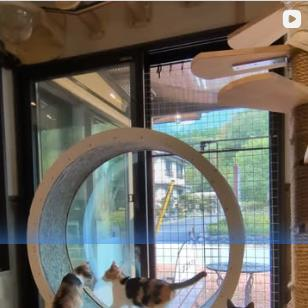
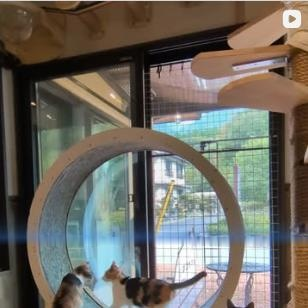
Fix cat cafe: remove blue line artifacts from images and optimize access layout to eliminate empty space

diff --git a/catcafe.html b/catcafe.html
@@ -548,62 +548,101 @@
           </div>
         </div>
 
-        <div class="access-box" style="margin-top: 0;">
-          <div class="detail-split-row" style="align-items: flex-start;">
-            <div class="detail-split-content" style="flex: 1.2;">
-              <table style="width: 100%; border-collapse: collapse; font-size: 0.92rem; color: var(--color-text-sub);">
+                <div class="access-box" style="margin-top: 0; padding: 36px 32px; background: rgba(22, 30, 26, 0.9); border: 1px solid rgba(212, 175, 55, 0.25); border-radius: 14px; box-shadow: 0 12px 36px rgba(0,0,0,0.4);">
+          <div style="display: grid; grid-template-columns: repeat(auto-fit, minmax(340px, 1fr)); gap: 36px; align-items: start;">
+            <!-- 左カラム: 店舗情報テーブル & ボタン -->
+            <div>
+              <div style="display: flex; align-items: center; gap: 10px; margin-bottom: 20px;">
+                <span style="display: inline-flex; align-items: center; justify-content: center; width: 36px; height: 36px; border-radius: 50%; background: rgba(212, 175, 55, 0.15); border: 1px solid var(--color-gold); color: var(--color-gold-light); font-size: 1rem;">
+                  <i class="fa-solid fa-store"></i>
+                </span>
+                <h3 style="font-family: var(--font-mincho); font-size: 1.3rem; color: #fff; margin: 0;">店舗インフォメーション</h3>
+              </div>
+
+              <table style="width: 100%; border-collapse: collapse; font-size: 0.93rem; color: var(--color-text-sub);">
                 <tbody>
                   <tr style="border-bottom: 1px solid rgba(255,255,255,0.08);">
-                    <th style="padding: 14px 10px; width: 140px; color: #ffffff; font-weight: 600; text-align: left; vertical-align: top;">店舗名称</th>
-                    <td style="padding: 14px 10px;">あかさわネコカフェ＆ダイニング（赤沢ネコカフェ）</td>
+                    <th style="padding: 13px 8px; width: 130px; color: #ffffff; font-weight: 600; text-align: left; vertical-align: top;">店舗名称</th>
+                    <td style="padding: 13px 8px; color: #eee; font-weight: 500;">あかさわネコカフェ＆ダイニング<br><span style="font-size: 0.82rem; color: var(--color-gold-light);">（赤沢ネコカフェ）</span></td>
                   </tr>
                   <tr style="border-bottom: 1px solid rgba(255,255,255,0.08);">
-                    <th style="padding: 14px 10px; color: #ffffff; font-weight: 600; text-align: left; vertical-align: top;">所在地</th>
-                    <td style="padding: 14px 10px;">
+                    <th style="padding: 13px 8px; color: #ffffff; font-weight: 600; text-align: left; vertical-align: top;">所在地</th>
+                    <td style="padding: 13px 8px;">
                       〒329-2921 栃木県那須塩原市中塩原537-23<br>
-                      <span style="font-size: 0.85rem; color: var(--color-gold-light);">※赤沢温泉旅館から徒歩約10分、車で約2分</span>
+                      <span style="font-size: 0.85rem; color: var(--color-gold-light); display: inline-block; margin-top: 4px;">
+                        <i class="fa-solid fa-person-walking"></i> 赤沢温泉旅館から徒歩約10分／車で約2分
+                      </span>
                     </td>
                   </tr>
                   <tr style="border-bottom: 1px solid rgba(255,255,255,0.08);">
-                    <th style="padding: 14px 10px; color: #ffffff; font-weight: 600; text-align: left; vertical-align: top;">お電話</th>
-                    <td style="padding: 14px 10px;">
-                      <a href="tel:0287-46-5700" style="color: var(--color-gold-light); font-weight: 600;">0287-46-5700</a>（赤沢温泉旅館 共通）
+                    <th style="padding: 13px 8px; color: #ffffff; font-weight: 600; text-align: left; vertical-align: top;">お電話</th>
+                    <td style="padding: 13px 8px;">
+                      <a href="tel:0287-46-5700" style="color: var(--color-gold-light); font-weight: 600; font-size: 1.05rem; text-decoration: none;">
+                        <i class="fa-solid fa-phone"></i> 0287-46-5700
+                      </a>
+                      <span style="font-size: 0.82rem; color: #aaa; margin-left: 6px;">（赤沢温泉旅館 共通）</span>
                     </td>
                   </tr>
                   <tr style="border-bottom: 1px solid rgba(255,255,255,0.08);">
-                    <th style="padding: 14px 10px; color: #ffffff; font-weight: 600; text-align: left; vertical-align: top;">営業日・時間</th>
-                    <td style="padding: 14px 10px;">
-                      金・土・日・祝日 10:30 〜 14:00<br>
-                      <span style="font-size: 0.82rem; color: var(--color-text-muted);">※状況によりプレオープン・臨時営業あり。最新日は公式SNSをご確認ください。</span>
+                    <th style="padding: 13px 8px; color: #ffffff; font-weight: 600; text-align: left; vertical-align: top;">営業日・時間</th>
+                    <td style="padding: 13px 8px;">
+                      <strong style="color: #fff;">金・土・日・祝日 10:30 〜 14:00</strong><br>
+                      <span style="font-size: 0.82rem; color: var(--color-text-muted); display: inline-block; margin-top: 3px;">
+                        ※状況によりプレオープン・臨時営業あり。最新日は公式SNSをご確認ください。
+                      </span>
                     </td>
                   </tr>
                   <tr style="border-bottom: 1px solid rgba(255,255,255,0.08);">
-                    <th style="padding: 14px 10px; color: #ffffff; font-weight: 600; text-align: left; vertical-align: top;">駐車場</th>
-                    <td style="padding: 14px 10px;">専用駐車場あり（無料）</td>
+                    <th style="padding: 13px 8px; color: #ffffff; font-weight: 600; text-align: left; vertical-align: top;">駐車場</th>
+                    <td style="padding: 13px 8px;">専用駐車場あり（無料）</td>
                   </tr>
                   <tr>
-                    <th style="padding: 14px 10px; color: #ffffff; font-weight: 600; text-align: left; vertical-align: top;">公式Instagram</th>
-                    <td style="padding: 14px 10px;">
-                      <a href="https://www.instagram.com/akasawa_catcafe/" target="_blank" rel="noopener noreferrer" style="color: var(--color-gold-light); text-decoration: underline;">
-                        <i class="fa-brands fa-instagram"></i> @akasawa_catcafe
+                    <th style="padding: 13px 8px; color: #ffffff; font-weight: 600; text-align: left; vertical-align: top;">公式SNS</th>
+                    <td style="padding: 13px 8px;">
+                      <a href="https://www.instagram.com/akasawa_catcafe/" target="_blank" rel="noopener noreferrer" style="color: var(--color-gold-light); text-decoration: none; font-weight: 500; display: inline-flex; align-items: center; gap: 6px;">
+                        <i class="fa-brands fa-instagram" style="font-size: 1.15rem;"></i> @akasawa_catcafe
                       </a>
                     </td>
                   </tr>
                 </tbody>
               </table>
 
-              <div style="margin-top: 24px; display: flex; gap: 12px; flex-wrap: wrap;">
-                <a href="https://maps.app.goo.gl/8LwZFEVDGVbhiUtQA?g_st=ac" target="_blank" rel="noopener noreferrer" class="btn-catcafe-main">
+              <div style="margin-top: 24px; display: flex; gap: 14px; flex-wrap: wrap;">
+                <a href="https://maps.app.goo.gl/8LwZFEVDGVbhiUtQA?g_st=ac" target="_blank" rel="noopener noreferrer" class="btn-catcafe-main" style="padding: 12px 24px; font-size: 0.95rem; display: inline-flex; align-items: center; gap: 8px;">
                   <i class="fa-solid fa-location-dot"></i> Googleマップで道順を見る
                 </a>
-                <a href="tel:0287-46-5700" class="btn-header-tel" style="border: 1px solid rgba(255,255,255,0.2); padding: 12px 20px;">
-                  <i class="fa-solid fa-phone"></i> 本日の営業をお電話で確認
+                <a href="tel:0287-46-5700" class="btn-header-tel" style="border: 1px solid rgba(212, 175, 55, 0.4); background: rgba(255,255,255,0.06); color: #fff; padding: 12px 20px; border-radius: 30px; text-decoration: none; font-size: 0.95rem; display: inline-flex; align-items: center; gap: 8px;">
+                  <i class="fa-solid fa-phone" style="color: var(--color-gold-light);"></i> 本日の営業をお電話で確認
                 </a>
               </div>
             </div>
 
-            <div class="detail-split-img" style="flex: 1;">
-              <img src="assets/catcafe/insta_cat_2.jpg" alt="あかさわネコカフェの店内窓辺" style="border-radius: var(--radius-md); box-shadow: 0 10px 30px rgba(0,0,0,0.5);">
+            <!-- 右カラム: Googleマップ埋め込み ＆ 店内写真 (PCで空間が空かないよう完全充足) -->
+            <div>
+              <div style="border-radius: 10px; overflow: hidden; border: 1px solid rgba(212, 175, 55, 0.35); box-shadow: 0 8px 24px rgba(0,0,0,0.35); height: 260px; width: 100%; margin-bottom: 16px;">
+                <iframe 
+                  src="https://www.google.com/maps/embed?pb=!1m18!1m12!1m3!1d3197.8!2d139.81!3d36.97!2m3!1f0!2f0!3f0!3m2!1i1024!2i768!4f13.1!3m3!1m2!1s0x601f91040854ca63%3A0x6b7cf9a9cb8c5a2!2z44CSMzI5LTI5MjEg5qCD5pyo55yM6YKj6aCI5aGp5Y6f5biC5Lit5aGp5Y6fNTM3LTIz!5e0!3m2!1sja!2sjp!4v1700000000000!5m2!1sja!2sjp" 
+                  width="100%" 
+                  height="100%" 
+                  style="border:0;" 
+                  allowfullscreen="" 
+                  loading="lazy" 
+                  referrerpolicy="no-referrer-when-downgrade"
+                  title="あかさわネコカフェ アクセスマップ">
+                </iframe>
+              </div>
+
+              <!-- マップ下の写真2枚並び -->
+              <div style="display: grid; grid-template-columns: 1fr 1fr; gap: 12px;">
+                <div style="position: relative; border-radius: 8px; overflow: hidden; border: 1px solid rgba(255,255,255,0.1); aspect-ratio: 16/10;">
+                  <img src="assets/catcafe/insta_cat_2.jpg" alt="明るい光が差し込む窓辺とキャットホイール" style="width: 100%; height: 100%; object-fit: cover;">
+                  <span style="position: absolute; bottom: 6px; left: 6px; background: rgba(0,0,0,0.65); color: #fff; font-size: 0.72rem; padding: 2px 6px; border-radius: 3px;">明るい窓辺</span>
+                </div>
+                <div style="position: relative; border-radius: 8px; overflow: hidden; border: 1px solid rgba(255,255,255,0.1); aspect-ratio: 16/10;">
+                  <img src="assets/catcafe/cafe_photo_1.jpg" alt="木の温もりあふれる店内の様子" style="width: 100%; height: 100%; object-fit: cover;">
+                  <span style="position: absolute; bottom: 6px; left: 6px; background: rgba(0,0,0,0.65); color: #fff; font-size: 0.72rem; padding: 2px 6px; border-radius: 3px;">店内の様子</span>
+                </div>
+              </div>
             </div>
           </div>
         </div>
